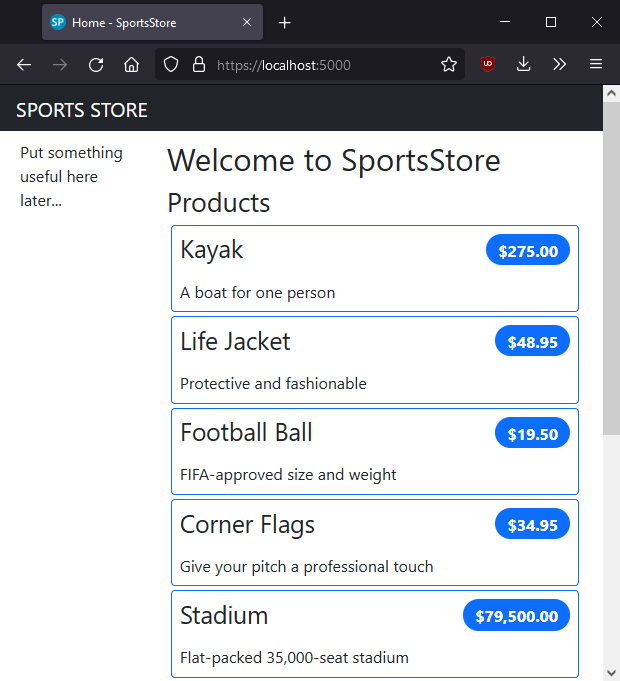
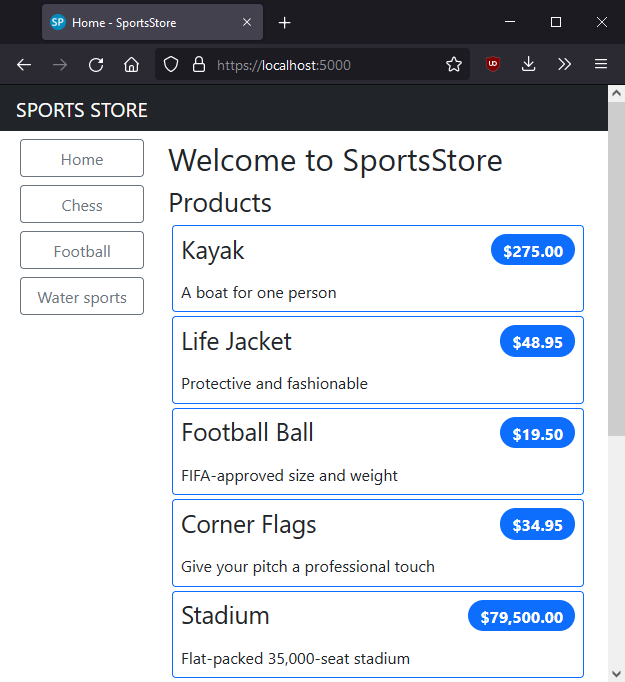
Generating Category Lists.

diff --git a/SportsStore/src/ViewComponents/NavigationMenuViewComponent.cs b/SportsStore/src/ViewComponents/NavigationMenuViewComponent.cs
@@ -1,12 +1,26 @@
 using Microsoft.AspNetCore.Mvc;
+using Microsoft.EntityFrameworkCore;
+using SportsStore.Data;
 
-namespace SportsStore.ViewComponents
+namespace SportsStore.ViewComponents;
+
+public class NavigationMenuViewComponent : ViewComponent
 {
-    public class NavigationMenuViewComponent : ViewComponent
+    private readonly StoreDbContext _dbContext;
+
+    public NavigationMenuViewComponent(StoreDbContext context)
     {
-        public string Invoke()
-        {
-            return "Hello from the Navigation View Component.";
-        }
+        _dbContext = context;
+    }
+
+    public async Task<IViewComponentResult> InvokeAsync()
+    {
+        var categories = await _dbContext.Products
+            .Select(p => p.Category)
+            .Distinct()
+            .OrderBy(c => c)
+            .ToArrayAsync();
+
+        return View(categories);
     }
 }
